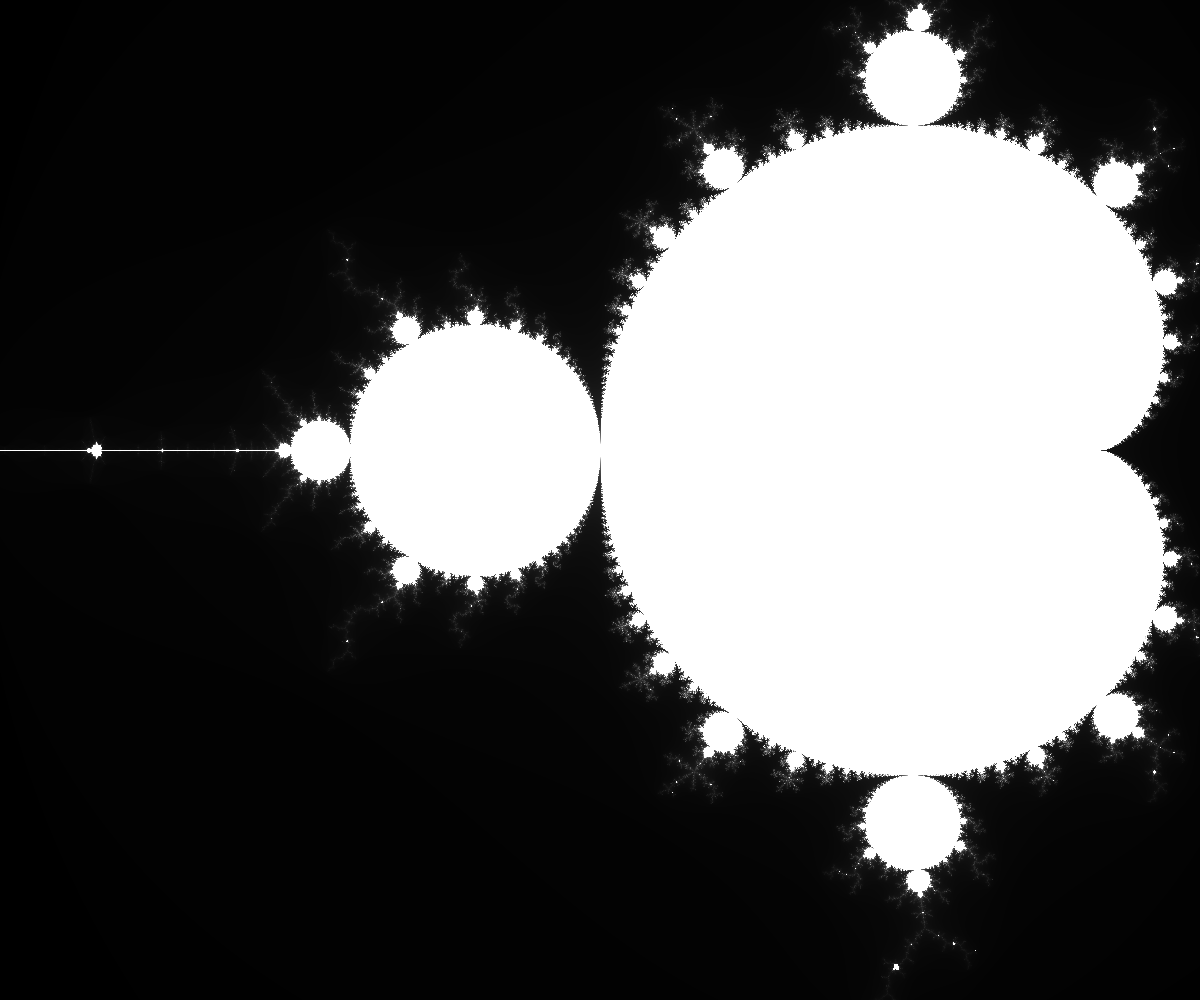
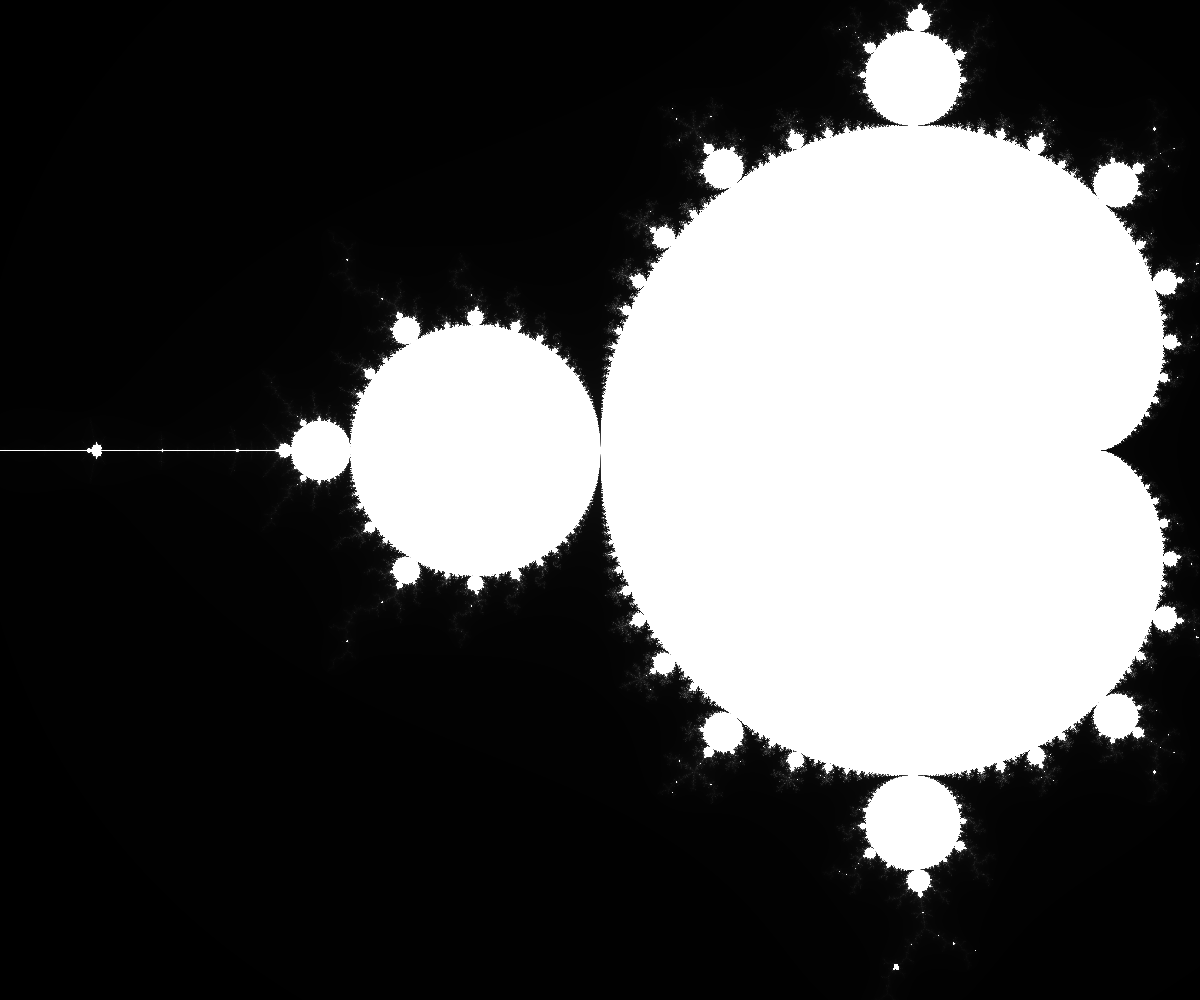
value p

diff --git a/mandelbrot.py b/mandelbrot.py
@@ -1,36 +1,40 @@
 from PIL import Image, ImageColor
+from math import e
+p = 500
 
-p = 255
+resolution_x = 1200
+resolution_y = 1000
 
-resolution_x=1200
-resolution_y=1000
-
-center_x =-0.75
+#traditional center
+center_x = -0.75 
 center_y = 0.1
-zoom=500
 
-def pixel_to_complex(x,y):
-    return complex((x-resolution_x/2)/zoom+center_x,(y-resolution_y/2)/zoom+center_y)
+zoom = 500
 
-def plot_pixel(x,y):
-    z = pixel_to_complex(x,y)
+
+def pixel_to_complex(x, y):
+    return complex((x-resolution_x/2)/zoom+center_x, (y-resolution_y/2)/zoom+center_y)
+
+
+def plot_pixel(x, y):
+    z = pixel_to_complex(x, y)
     color = mandelbrot(z)
-    im.putpixel((x,y), (color,))
+    color = int((color * 255)/p)
+    im.putpixel((x, y), (color,))
+
 
 def mandelbrot(c):
-    z=0
+    z = 0
     for i in range(p):
-        z=z**2+c
+        z = z**2+c
         if abs(z) > 2:
             return i
     return p
 
-im = Image.new('L', (resolution_x,resolution_y))
+
+im = Image.new('L', (resolution_x, resolution_y))
 for x in range(resolution_x):
     for y in range(resolution_y):
-        plot_pixel(x,y)
-#im.show()
+        plot_pixel(x, y)
+# im.show()
 im.save('mandelbrot.png')
-
-
-
